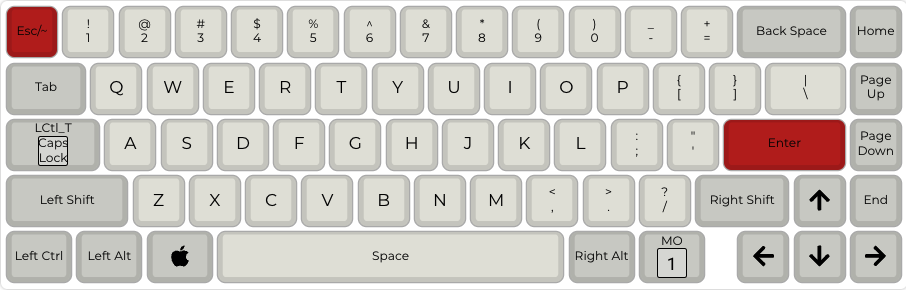
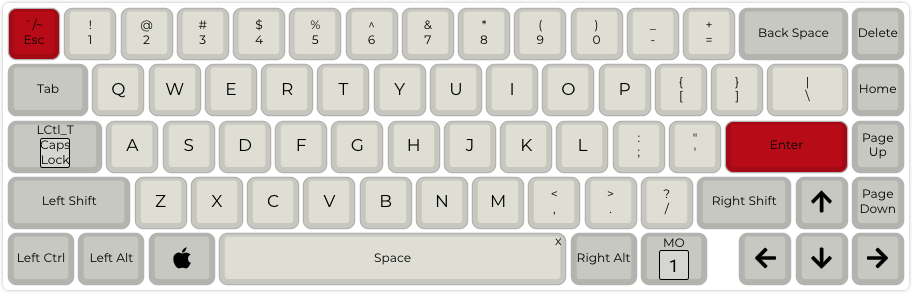
updated layers for D65

diff --git a/kbdfans/d65/keymap.c b/kbdfans/d65/keymap.c
@@ -8,8 +8,8 @@
  */
 
 const uint16_t PROGMEM keymaps[][MATRIX_ROWS][MATRIX_COLS] = {
-	[0] = LAYOUT_65_ansi_blocker(QK_GESC, KC_1, KC_2, KC_3, KC_4, KC_5, KC_6, KC_7, KC_8, KC_9, KC_0, KC_MINS, KC_EQL, KC_BSPC, KC_HOME, KC_TAB, KC_Q, KC_W, KC_E, KC_R, KC_T, KC_Y, KC_U, KC_I, KC_O, KC_P, KC_LBRC, KC_RBRC, KC_BSLS, KC_PGUP, LCTL_T(KC_CAPS), KC_A, KC_S, KC_D, KC_F, KC_G, KC_H, KC_J, KC_K, KC_L, KC_SCLN, KC_QUOT, KC_ENT, KC_PGDN, KC_LSFT, KC_Z, KC_X, KC_C, KC_V, KC_B, KC_N, KC_M, KC_COMM, KC_DOT, KC_SLSH, KC_RSFT, KC_UP, KC_END, KC_LCTL, KC_LALT, KC_LGUI, KC_SPC, KC_RALT, MO(1), KC_LEFT, KC_DOWN, KC_RGHT),
-	[1] = LAYOUT_65_ansi_blocker(KC_GRV, KC_F1, KC_F2, KC_F3, KC_F4, KC_F5, KC_F6, KC_F7, KC_F8, KC_F9, KC_F10, KC_F11, KC_F12, KC_DEL, KC_HOME, KC_TRNS, RGB_TOG, RGB_MOD, RGB_SPI, RGB_HUI, RGB_SAI, RGB_VAI, KC_TRNS, KC_TRNS, KC_TRNS, KC_PSCR, KC_SCRL, KC_PAUS, KC_TRNS, KC_PGUP, LCTL_T(KC_CAPS), RGB_M_P, RGB_RMOD, RGB_SPD, RGB_HUD, RGB_SAD, RGB_VAD, KC_TRNS, KC_MS_L, KC_MS_D, KC_MS_U, KC_MS_R, KC_TRNS, KC_PGDN, KC_LSFT, KC_MPRV, KC_MPLY, KC_MNXT, KC_TRNS, KC_TRNS, KC_TRNS, KC_TRNS, KC_TRNS, KC_TRNS, KC_TRNS, KC_MPLY, KC_VOLU, KC_MUTE, KC_TRNS, KC_TRNS, KC_TRNS, KC_TRNS, MO(2), KC_TRNS, KC_MPRV, KC_VOLD, KC_MNXT),
+	[0] = LAYOUT_65_ansi_blocker(QK_GESC, KC_1, KC_2, KC_3, KC_4, KC_5, KC_6, KC_7, KC_8, KC_9, KC_0, KC_MINS, KC_EQL, KC_BSPC, KC_DEL, KC_TAB, KC_Q, KC_W, KC_E, KC_R, KC_T, KC_Y, KC_U, KC_I, KC_O, KC_P, KC_LBRC, KC_RBRC, KC_BSLS, KC_HOME, LCTL_T(KC_CAPS), KC_A, KC_S, KC_D, KC_F, KC_G, KC_H, KC_J, KC_K, KC_L, KC_SCLN, KC_QUOT, KC_ENT, KC_PGUP, KC_LSFT, KC_Z, KC_X, KC_C, KC_V, KC_B, KC_N, KC_M, KC_COMM, KC_DOT, KC_SLSH, KC_RSFT, KC_UP, KC_PGDN, KC_LCTL, KC_LALT, KC_LGUI, KC_SPC, KC_RALT, MO(1), KC_LEFT, KC_DOWN, KC_RGHT),
+	[1] = LAYOUT_65_ansi_blocker(KC_GRV, KC_F1, KC_F2, KC_F3, KC_F4, KC_F5, KC_F6, KC_F7, KC_F8, KC_F9, KC_F10, KC_F11, KC_F12, KC_DEL, KC_TRNS, KC_TRNS, RGB_TOG, RGB_MOD, RGB_SPI, RGB_HUI, RGB_SAI, RGB_VAI, KC_TRNS, KC_TRNS, KC_TRNS, KC_PSCR, KC_SCRL, KC_PAUS, KC_TRNS, KC_TRNS, LCTL_T(KC_CAPS), RGB_M_P, RGB_RMOD, RGB_SPD, RGB_HUD, RGB_SAD, RGB_VAD, KC_TRNS, KC_MS_L, KC_MS_D, KC_MS_U, KC_MS_R, KC_TRNS, KC_TRNS, KC_LSFT, KC_MPRV, KC_MPLY, KC_MNXT, KC_TRNS, KC_TRNS, KC_TRNS, KC_TRNS, KC_TRNS, KC_TRNS, KC_TRNS, KC_MPLY, KC_VOLU, KC_MUTE, KC_TRNS, KC_TRNS, KC_TRNS, KC_TRNS, MO(2), KC_TRNS, KC_MPRV, KC_VOLD, KC_MNXT),
 	[2] = LAYOUT_65_ansi_blocker(KC_NO, KC_NO, KC_NO, KC_NO, KC_NO, KC_NO, KC_NO, KC_NO, KC_NO, KC_NO, KC_NO, KC_NO, KC_NO, KC_NO, KC_NO, KC_NO, RGB_M_P, RGB_M_B, RGB_M_R, RGB_M_SW, RGB_M_SN, RGB_M_K, RGB_M_X, RGB_M_G, RGB_M_T, KC_NO, KC_NO, KC_NO, QK_BOOT, KC_NO, KC_NO, KC_NO, KC_NO, KC_NO, KC_NO, KC_NO, KC_NO, KC_NO, KC_NO, KC_NO, KC_NO, KC_NO, EE_CLR, KC_NO, KC_NO, KC_NO, KC_NO, KC_NO, KC_NO, KC_NO, KC_NO, KC_NO, KC_NO, KC_NO, KC_NO, KC_NO, KC_NO, KC_NO, KC_NO, LAG_SWP, LAG_NRM, KC_NO, KC_TRNS, KC_NO, KC_NO, KC_NO, KC_NO)
 };
 
